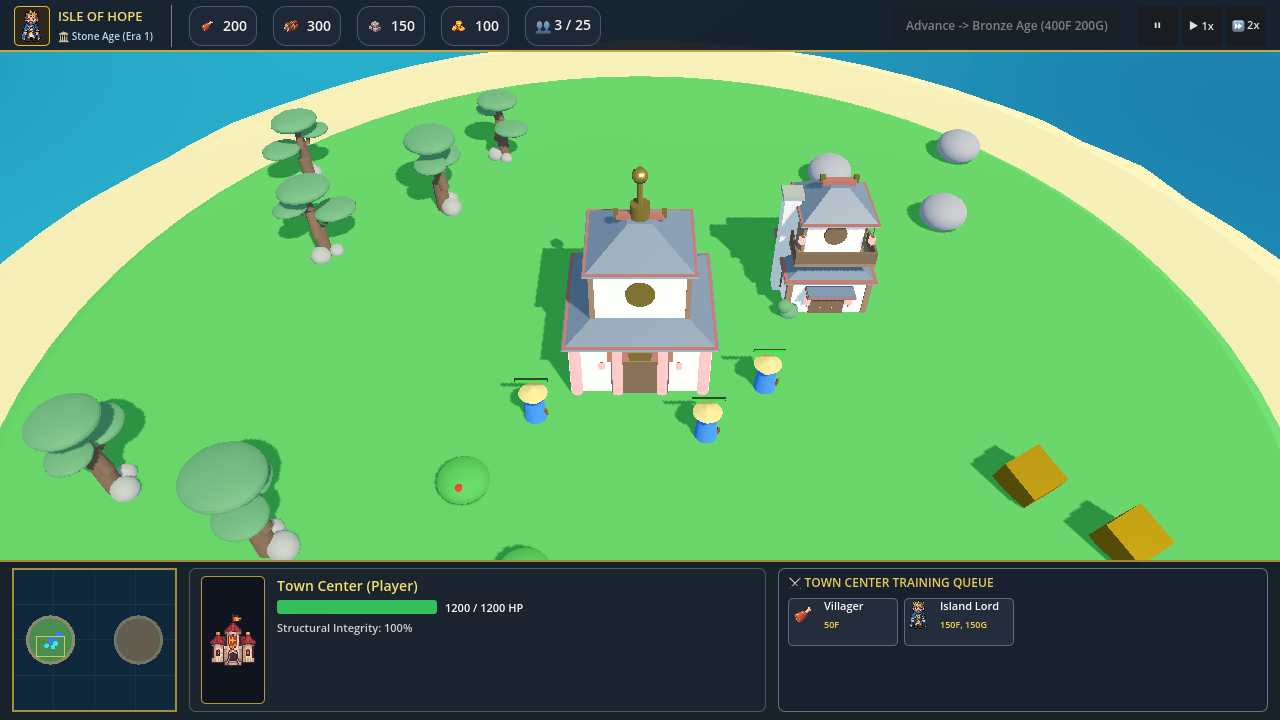
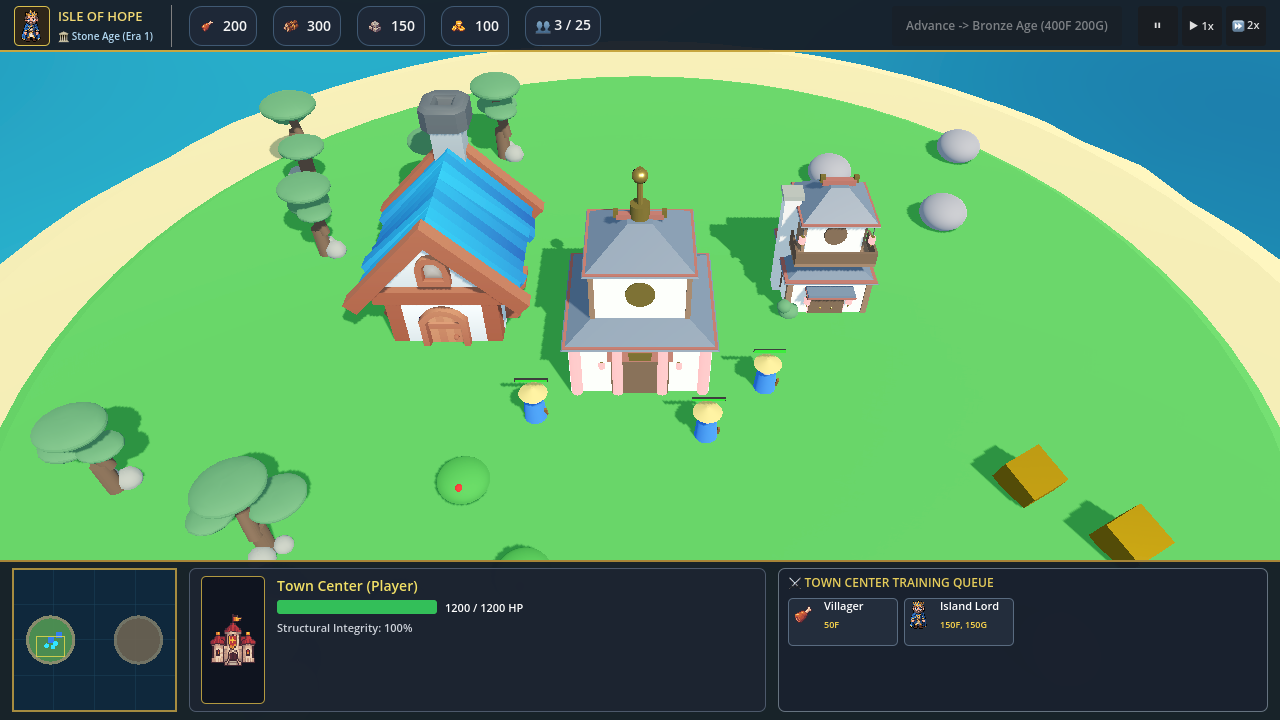
feat(art): add free game-ready 3D cottage pipeline & in-game integration

Changed region(s): [[0.1875, 0.0917, 0.4375, 0.4889], [0.0, 0.55, 0.25, 0.7944], [0.1875, 0.1222, 0.2812, 0.2444]]

diff --git a/scripts/import_free_model.py b/scripts/import_free_model.py
@@ -1,0 +1,150 @@
+#!/usr/bin/env python3
+"""
+Free 3D Model Importer & Converter for Island Empire
+Converts any downloaded free 3D model (OBJ, FBX, BLEND, GLTF, DAE, ZIP) into game-ready .GLB
+using Blender 5.2 LTS, scaling and centering it for Godot 4.7.
+"""
+
+import sys
+import os
+import shutil
+import zipfile
+import subprocess
+import argparse
+
+BLENDER_BIN = "/opt/homebrew/bin/blender"
+OUTPUT_DIR = "/Users/cuong.le/Document/build-the-game/assets/models"
+
+CONVERT_SCRIPT_TEMPLATE = """
+import bpy
+import os
+import sys
+
+input_file = "{input_file}"
+output_glb = "{output_glb}"
+target_size = {target_size}
+
+bpy.ops.wm.read_factory_settings(use_empty=True)
+
+ext = os.path.splitext(input_file)[1].lower()
+print(f"Importing {{input_file}} (ext: {{ext}})...")
+
+if ext in ['.gltf', '.glb']:
+    bpy.ops.import_scene.gltf(filepath=input_file)
+elif ext == '.obj':
+    try:
+        bpy.ops.wm.obj_import(filepath=input_file)
+    except:
+        bpy.ops.import_scene.obj(filepath=input_file)
+elif ext == '.fbx':
+    bpy.ops.import_scene.fbx(filepath=input_file)
+elif ext == '.blend':
+    bpy.ops.wm.open_mainfile(filepath=input_file)
+elif ext == '.dae':
+    bpy.ops.wm.collada_import(filepath=input_file)
+else:
+    print(f"Unsupported format: {{ext}}")
+    sys.exit(1)
+
+# Calculate bounding box & normalize scale
+bpy.ops.object.select_all(action='SELECT')
+selected = bpy.context.selected_objects
+if not selected:
+    print("No objects imported!")
+    sys.exit(1)
+
+# Compute total dimensions
+min_x = min(o.location.x - o.dimensions.x/2 for o in selected)
+max_x = max(o.location.x + o.dimensions.x/2 for o in selected)
+min_y = min(o.location.y - o.dimensions.y/2 for o in selected)
+max_y = max(o.location.y + o.dimensions.y/2 for o in selected)
+min_z = min(o.location.z for o in selected)
+max_z = max(o.location.z + o.dimensions.z for o in selected)
+
+cur_max_dim = max(max_x - min_x, max_y - min_y, max_z - min_z)
+scale_factor = 1.0
+if cur_max_dim > 0.001 and target_size > 0:
+    scale_factor = target_size / cur_max_dim
+    print(f"Scaling model from {{cur_max_dim:.2f}} to {{target_size:.2f}} (factor: {{scale_factor:.4f}})")
+    for o in selected:
+        o.scale *= scale_factor
+
+bpy.ops.object.transform_apply(location=False, rotation=False, scale=True)
+
+# Export clean GLB
+print(f"Exporting to {{output_glb}}...")
+bpy.ops.export_scene.gltf(
+    filepath=output_glb,
+    export_format='GLB',
+    use_selection=True,
+    export_apply=True
+)
+print("GLB export complete!")
+"""
+
+def process_file(source_path: str, target_name: str, target_size: float = 2.8):
+    source_path = os.path.abspath(os.path.expanduser(source_path))
+    if not os.path.exists(source_path):
+        print(f"❌ File not found: {source_path}")
+        return False
+
+    temp_dir = "/tmp/model_import"
+    if os.path.exists(temp_dir):
+        shutil.rmtree(temp_dir)
+    os.makedirs(temp_dir, exist_ok=True)
+
+    input_model_file = source_path
+    if source_path.lower().endswith(".zip"):
+        print(f"📦 Extracting zip: {source_path}...")
+        with zipfile.ZipFile(source_path, 'r') as zip_ref:
+            zip_ref.extractall(temp_dir)
+        
+        # Search for 3D model files inside
+        found = []
+        for root, _, files in os.walk(temp_dir):
+            for f in files:
+                ext = os.path.splitext(f)[1].lower()
+                if ext in [".obj", ".fbx", ".gltf", ".glb", ".blend", ".dae"]:
+                    found.append(os.path.join(root, f))
+        if not found:
+            print("❌ No 3D model file found inside zip!")
+            return False
+        # Prefer gltf/glb, then blend, then fbx, then obj
+        found.sort(key=lambda x: [".gltf", ".glb", ".blend", ".fbx", ".obj", ".dae"].index(os.path.splitext(x)[1].lower()) if os.path.splitext(x)[1].lower() in [".gltf", ".glb", ".blend", ".fbx", ".obj", ".dae"] else 99)
+        input_model_file = found[0]
+        print(f"Found model: {input_model_file}")
+
+    output_glb = os.path.join(OUTPUT_DIR, f"{target_name}.glb")
+    script_path = os.path.join(temp_dir, "convert.py")
+    script_content = CONVERT_SCRIPT_TEMPLATE.format(
+        input_file=input_model_file,
+        output_glb=output_glb,
+        target_size=target_size
+    )
+    with open(script_path, "w") as f:
+        f.write(script_content)
+
+    print(f"🔄 Converting via Blender: {input_model_file} -> {output_glb}...")
+    cmd = [BLENDER_BIN, "--background", "--python", script_path]
+    res = subprocess.run(cmd, stdout=subprocess.PIPE, stderr=subprocess.PIPE, text=True)
+    if res.returncode != 0:
+        print(f"❌ Blender conversion error:\n{res.stderr}\n{res.stdout}")
+        return False
+
+    print(f"✅ Successfully created {output_glb}!")
+    
+    # Trigger Godot reimport
+    print("🔄 Re-indexing in Godot Engine...")
+    subprocess.run(["godot", "--headless", "--editor", "--quit"], cwd="/Users/cuong.le/Document/build-the-game")
+    print(f"✨ Ready! Model is active at res://assets/models/{target_name}.glb")
+    return True
+
+if __name__ == "__main__":
+    parser = argparse.ArgumentParser(description="Import Free 3D Model into Island Empire")
+    parser.add_argument("input", help="Path to downloaded 3D model (zip, obj, fbx, blend, gltf)")
+    parser.add_argument("--name", default="house", help="Target name in assets/models/<name>.glb (default: house)")
+    parser.add_argument("--size", type=float, default=2.8, help="Target bounding box dimension (default: 2.8)")
+    args = parser.parse_args()
+
+    success = process_file(args.input, args.name, args.size)
+    sys.exit(0 if success else 1)
